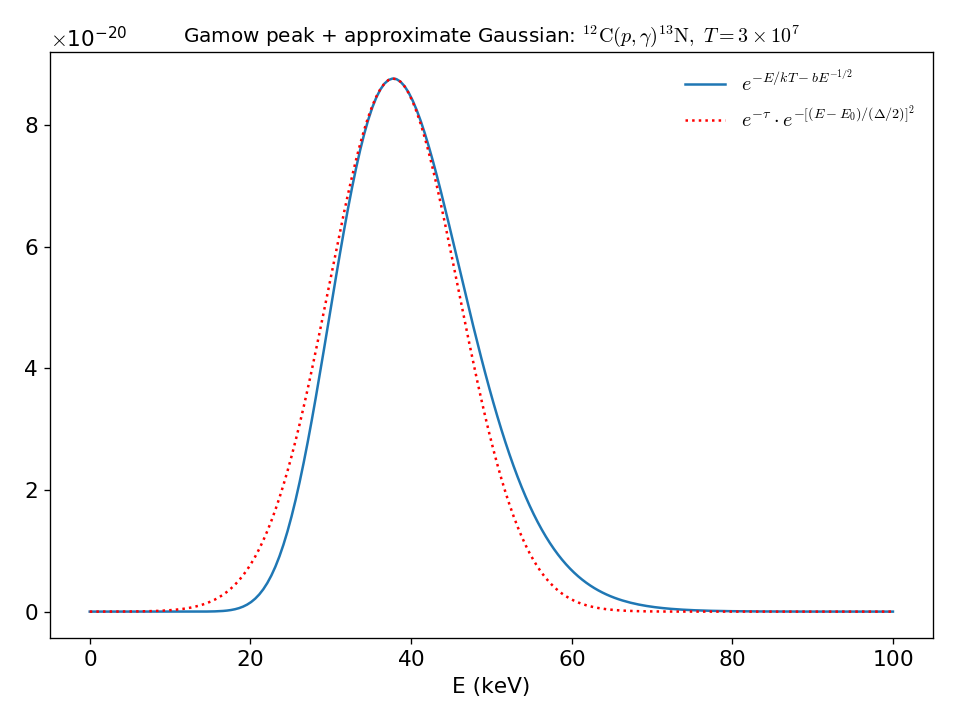
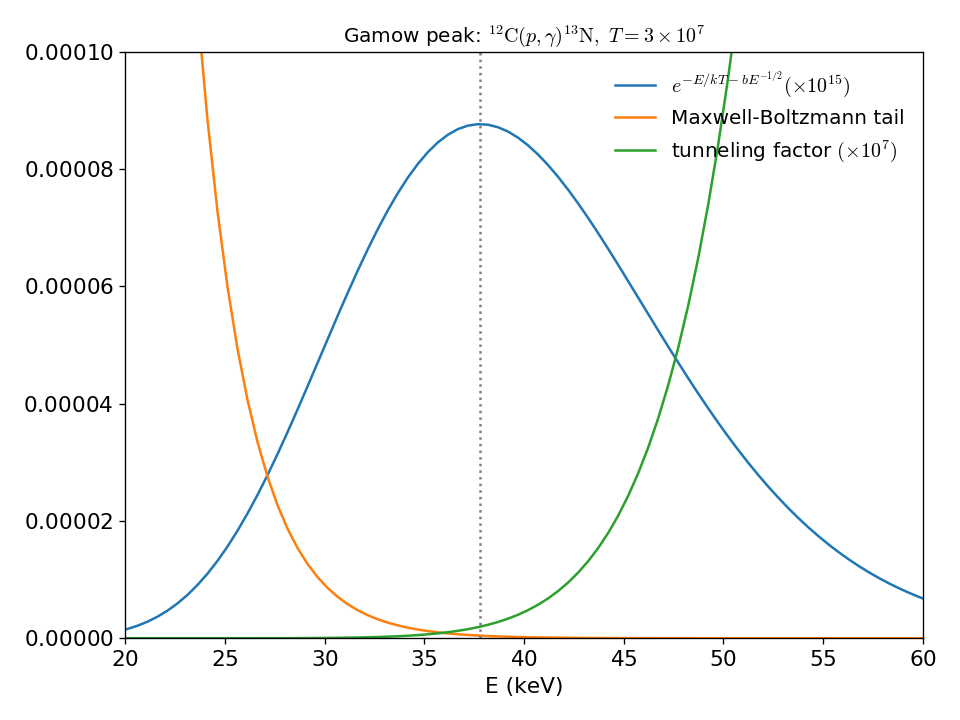
some updates to show structure

diff --git a/stars/gamow_fig/gamow.py b/stars/gamow_fig/gamow.py
@@ -32,6 +32,11 @@ def gamow(E, T):
     # E should be in keV
     return np.exp(-E/(k_keV*T) - b/np.sqrt(E))
 
+def max_boltz(E, T):
+    return np.exp(-E/(k_keV*T))
+
+def tunnel(E, T):
+    return np.exp(- b/np.sqrt(E))
 
 def gaussian_fit(E, T):
     # this is Clayton Eqs. 4-48 to 4-51
@@ -49,17 +54,24 @@ print("E_0 = ", E_0)
 E = np.linspace(0, 100, 200)
 
 
-plt.plot(E, gamow(E,T), label=r"$e^{-E/kT - bE^{-1/2}}$")
-plt.plot(E, gaussian_fit(E,T), color="r", ls=":", label=r"$e^{-\tau} \cdot e^{-[(E-E_0)/(\Delta/2)]^2}$")
+plt.plot(E, 1.e15*gamow(E,T), label=r"$e^{-E/kT - bE^{-1/2}} (\times 10^{15})$")
+plt.plot(E, max_boltz(E,T), label=r"Maxwell-Boltzmann tail")
+plt.plot(E, 1.e7*tunnel(E,T), label=r"tunneling factor $(\times 10^7)$")
+#plt.plot(E, gaussian_fit(E,T), color="r", ls=":", label=r"$e^{-\tau} \cdot e^{-[(E-E_0)/(\Delta/2)]^2}$")
+
+plt.plot([E_0, E_0], [0, 1], ls=":", color="0.5")
 
 plt.legend(frameon=False, fontsize=12)
 
 ax = plt.gca()
+ax.set_xlim(20, 60)
+ax.set_ylim(0,1.e-4)
 ax.yaxis.set_major_formatter(plt.ScalarFormatter(useMathText=True))
 
 
 plt.xlabel("E (keV)")
-plt.title(r"Gamow peak + approximate Gaussian: $^{12}\mathrm{C}(p,\gamma){^{13}\mathrm{N}},\ T = 3\times 10^7~\mathrm{K}$", fontsize=12)
+#plt.title(r"Gamow peak + approximate Gaussian: $^{12}\mathrm{C}(p,\gamma){^{13}\mathrm{N}},\ T = 3\times 10^7~\mathrm{K}$", fontsize=12)
+plt.title(r"Gamow peak: $^{12}\mathrm{C}(p,\gamma){^{13}\mathrm{N}},\ T = 3\times 10^7~\mathrm{K}$", fontsize=12)
 
 plt.tight_layout()
 
